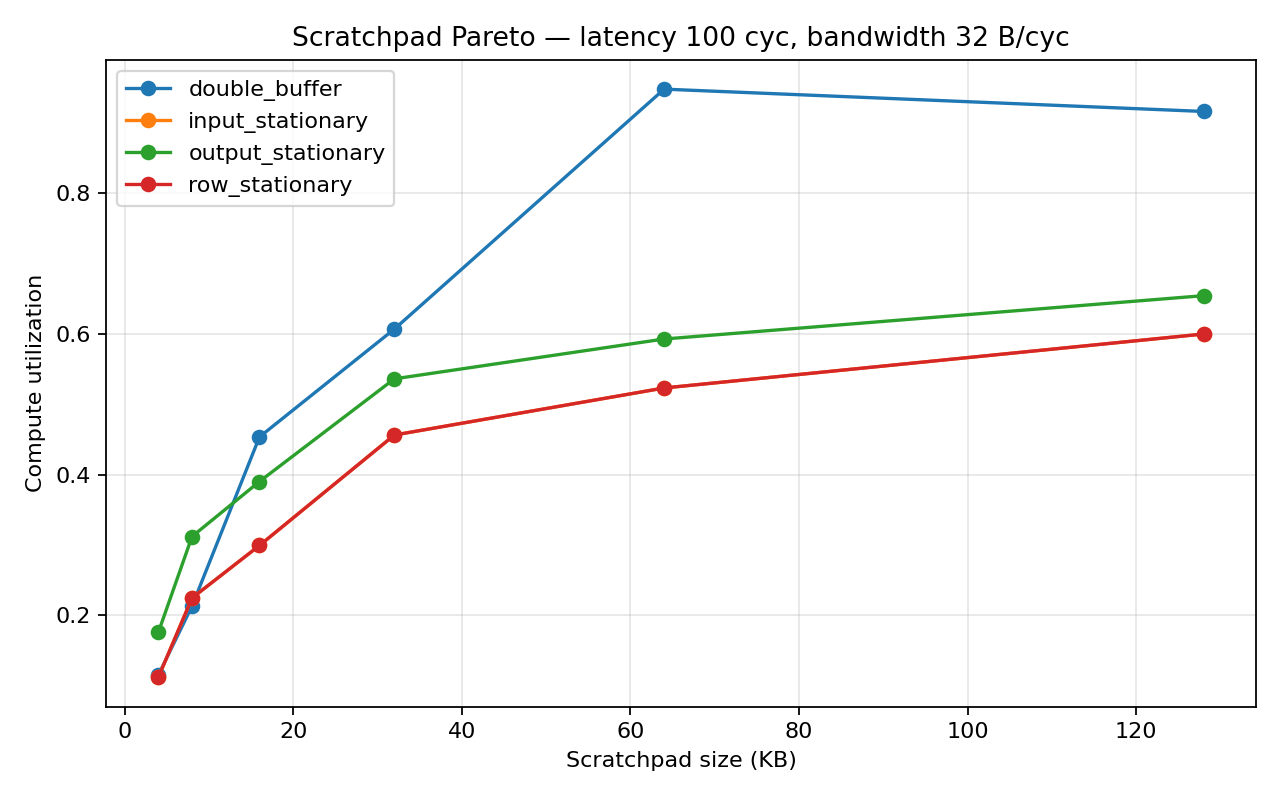
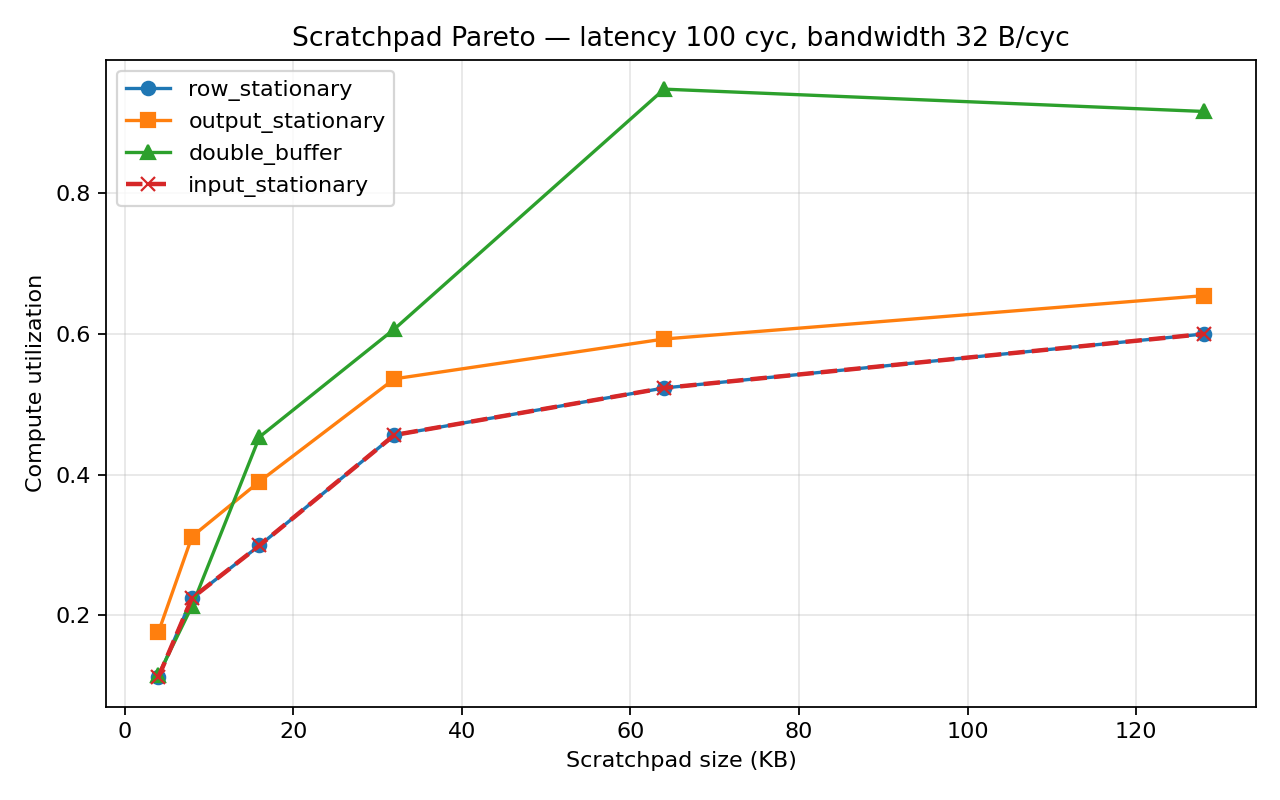
Plotting Fix

diff --git a/plots/plot_results.py b/plots/plot_results.py
@@ -15,6 +15,28 @@ import pandas as pd
 REF_LATENCY = 100
 REF_BANDWIDTH = 32
 
+# Per-strategy line styles. On a square problem input_stationary coincides
+# exactly with row_stationary (M<->N symmetry), so it is drawn last with a
+# dashed line and distinct marker — otherwise the solid row line drawn on top
+# would hide it completely in the overlay plots.
+STYLES = {
+    "row_stationary":    dict(linestyle="-", marker="o"),
+    "output_stationary": dict(linestyle="-", marker="s"),
+    "double_buffer":     dict(linestyle="-", marker="^"),
+    "input_stationary":  dict(linestyle="--", marker="x", linewidth=2),
+}
+DEFAULT_STYLE = dict(linestyle="-", marker="o")
+# Draw order for overlay plots: input_stationary last so it sits on top.
+DRAW_ORDER = ["row_stationary", "output_stationary", "double_buffer", "input_stationary"]
+
+
+def overlay_groups(frame):
+    """Yield (strategy, group) in DRAW_ORDER, with any unknown strategies last."""
+    known = [s for s in DRAW_ORDER if s in set(frame["strategy"])]
+    extra = [s for s in frame["strategy"].unique() if s not in DRAW_ORDER]
+    for strategy in known + extra:
+        yield strategy, frame[frame["strategy"] == strategy]
+
 
 def main() -> None:
     csv_path = Path(sys.argv[1]) if len(sys.argv) > 1 else Path("results/sweep.csv")
@@ -34,9 +56,9 @@ def main() -> None:
     ai_range = [ref["arithmetic_intensity"].min() * 0.8,
                 ref["arithmetic_intensity"].max() * 1.2]
 
-    for strategy, group in ref.groupby("strategy"):
+    for strategy, group in overlay_groups(ref):
         plt.plot(group["arithmetic_intensity"], group["effective_ops_per_cycle"],
-                 marker="o", label=strategy)
+                 label=strategy, **STYLES.get(strategy, DEFAULT_STYLE))
 
     ai_vals = pd.Series(ai_range)
     plt.plot(ai_vals, ai_vals * REF_BANDWIDTH, "k--", linewidth=1,
@@ -54,9 +76,9 @@ def main() -> None:
 
     # ── Plot 2: Scratchpad Pareto ─────────────────────────────────────────────
     plt.figure(figsize=(8, 5))
-    for strategy, group in ref.groupby("strategy"):
+    for strategy, group in overlay_groups(ref):
         plt.plot(group["scratchpad_kb"], group["compute_utilization"],
-                 marker="o", label=strategy)
+                 label=strategy, **STYLES.get(strategy, DEFAULT_STYLE))
     plt.xlabel("Scratchpad size (KB)")
     plt.ylabel("Compute utilization")
     plt.title(f"Scratchpad Pareto — latency {REF_LATENCY} cyc, bandwidth {REF_BANDWIDTH} B/cyc")
@@ -126,9 +148,9 @@ def main() -> None:
 
     # ── Plot 6: Energy efficiency ─────────────────────────────────────────────
     plt.figure(figsize=(8, 5))
-    for strategy, group in ref.groupby("strategy"):
+    for strategy, group in overlay_groups(ref):
         plt.plot(group["scratchpad_kb"], group["ops_per_pj"],
-                 marker="o", label=strategy)
+                 label=strategy, **STYLES.get(strategy, DEFAULT_STYLE))
     plt.xlabel("Scratchpad size (KB)")
     plt.ylabel("Energy efficiency (ops/pJ)")
     plt.title(f"Energy efficiency — latency {REF_LATENCY} cyc, bandwidth {REF_BANDWIDTH} B/cyc")